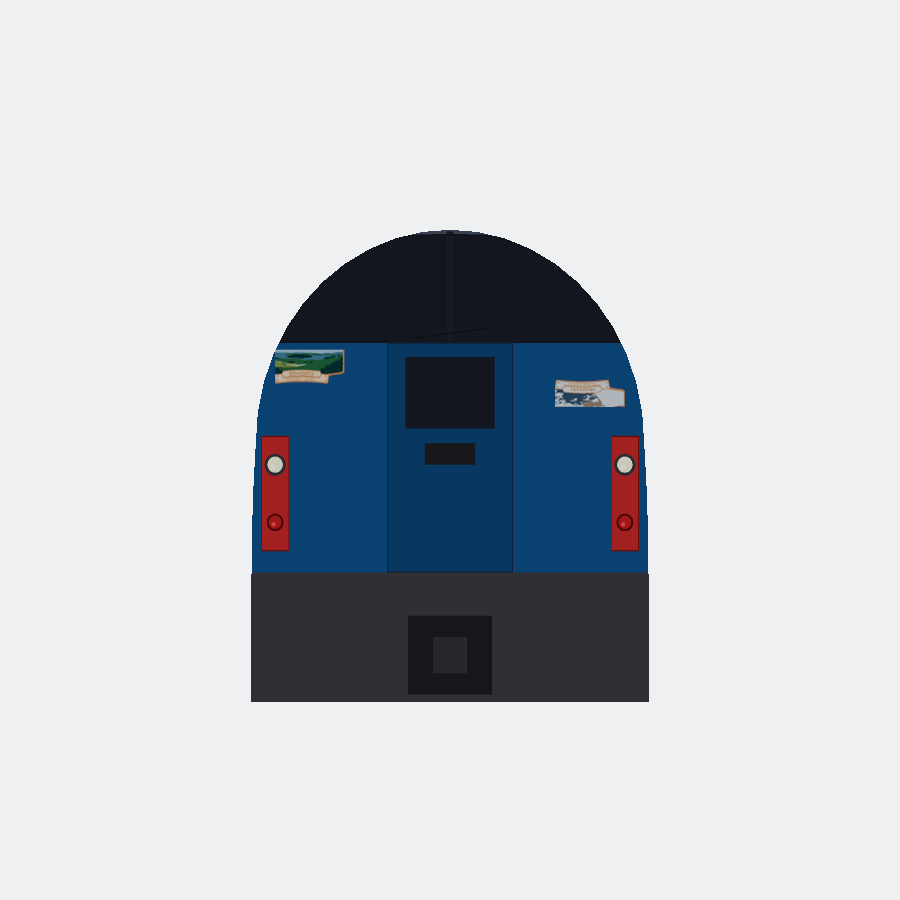
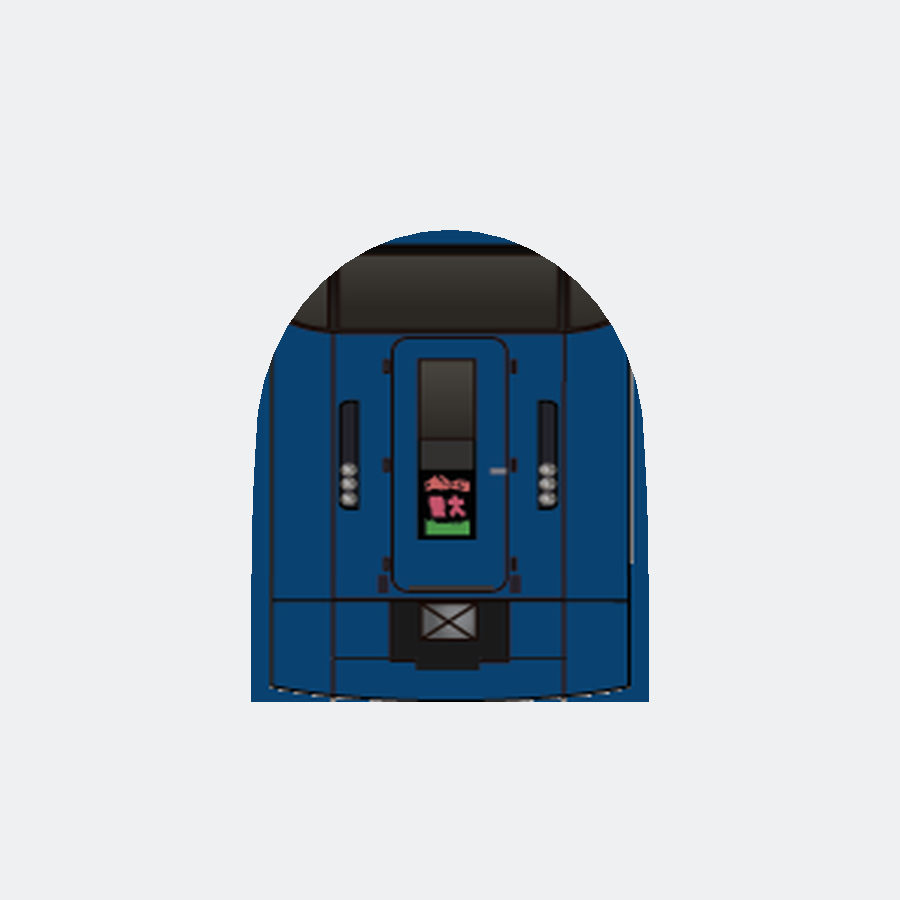
mc-review-rework5: jr-hokkaido-kiha283 cab face replaced with drawing crop
R5 redraw replaced by the drawing face piece (net x889-1020, y577-754,
flipped): panoramic windshield, gangway door with legible 大雪 display,
3-point lamps, X cover + skirt; headmark plates removed from the face.
models-pipeline 45039ea (car1) + 16e7469 (car3).

Changed region(s): [[0.28, 0.2489, 0.7467, 0.7778]]

diff --git a/mc-review-rework5-20261127/index.html b/mc-review-rework5-20261127/index.html
@@ -200,12 +200,12 @@ ul{margin:6px 0} li{font-size:14px;line-height:1.6} a{color:#93c5fd}
 <section class="card" id="car-44" data-num="44" data-slug="jr-hokkaido-kiha283" data-orig="第一批 #143" data-status="pushed">
   <div class="chead"><span class="num">#44</span> <span class="orig">汇总页 #44 · 第一批 #143</span> <span class="slug">jr-hokkaido-kiha283</span>
   <span class="badge pushed">✅ 已推</span></div>
-  <div class="pushline">✅ <b>已推</b>　提交 <code>8c8da1d</code>（删）、<code>599edab</code>（重建）（models-pipeline）</div><div class="cmeta">类别：其他：你这个司机端的这个贴图一看就不对整个删掉重新做 你能不能结合现实中的看一下呀 他（第五轮）</div>
+  <div class="pushline">✅ <b>已推</b>　提交 <code>45039ea</code>（car1）、<code>16e7469</code>（car3）（models-pipeline）</div><div class="cmeta">类别：其他：你这个司机端的这个贴图一看就不对整个删掉重新做 你能不能结合现实中的看一下呀 他（第五轮）</div>
   <div class="cnote"><b>MC 返工原因：</b>其他：你这个司机端的这个贴图一看就不对整个删掉重新做 你能不能结合现实中的看一下呀 他</div>
   <div class="cnote"><b>原始理由：</b>其他：重做</div>
   <div class="cnote"><b>根因：</b>R4 只改中央带颜色：脸仍是平蓝墙（无风挡、无门、无灯）、头标牌横置 90°、两侧灰机械条未清。</div>
-  <div class="cnote"><b>修法：</b>整车删掉重建：按实车＋kiha261 画法重画正脸——顶深灰蓝边＋3 小白灯、全景风挡（两片＋中柱、顶缘拱形、雨刮）、中央贯通门（＋门高窗＋显示框）、头标牌逆时针转 90° 贴回（左 TAISETSU 绿景、右 OZORA 蓝白雪景）、红灯壳；删两侧灰机械条、底绿带、中央拼贴缝；裙区深灰裙＋中央车钩盒。删 commit（663→662）＋重建 commit（662→663，index 位序与删前完全一致）。</div>
-  <div class="warnline">⚠ 鼻锥仍是平面帽几何（实车鼻锥是圆弧）；若 MC 要求圆鼻几何，需重建鼻锥 loft（另派任务）。头标牌在 car1/car3 左右互换（共用贴图＋u 镜像），数量与内容无误。</div>
+  <div class="cnote"><b>修法：</b>整车删掉重建：按实车＋kiha261 画法重画正脸——顶深灰蓝边＋3 小白灯、全景风挡（两片＋中柱、顶缘拱形、雨刮）、中央贯通门（＋门高窗＋显示框）、头标牌逆时针转 90° 贴回（左 TAISETSU 绿景、右 OZORA 蓝白雪景）、红灯壳；删两侧灰机械条、底绿带、中央拼贴缝；裙区深灰裙＋中央车钩盒。删 commit（663→662）＋重建 commit（662→663，index 位序与删前完全一致）。【2026-11-28 图纸裁切修复】第五轮脸是程序重画；图纸其实有真正脸件（net x889–1020，y577–754，垂直翻转一次），已换成图纸原图裁切：全景风挡＋中央贯通门（大雪显示正读）＋两侧各 3 点前灯＋底部 X 盖板＋裙区；头标牌不再贴上脸（牌在鼻侧件上，实车亦在鼻侧）；几何与 cap UV 未动（cap UV 为精确线性映射）；渲染与 batch51 对照 NCC 0.999。</div>
+  <div class="warnline">⚠ 鼻锥仍是平面帽几何（实车鼻锥是圆弧）；若 MC 要求圆鼻几何，需重建鼻锥 loft（另派任务）。头标牌已从脸上撤下（牌在鼻侧件上，实车亦在鼻侧；恢复需鼻锥 loft，另派任务）。</div>
   <div class="cimg"><img loading="lazy" src="img/jr-hokkaido-kiha283_r5_1.png" alt="jr-hokkaido-kiha283 修后（第五轮）——斜视角" onerror="this.parentElement.classList.add('imgerr');this.outerHTML='<div class=\'noimg\'>图加载失败</div>'"><div class="cap">修后（第五轮）——斜视角</div></div>
   <div class="cev"><div class="cevlab">🔍 司机端端面</div><img loading="lazy" src="img/jr-hokkaido-kiha283_r5_2.png" alt="jr-hokkaido-kiha283 特写"></div>
   <div class="cbtns">

diff --git a/mc-review-rework-all-20261127/index.html b/mc-review-rework-all-20261127/index.html
@@ -783,7 +783,7 @@ code{font-size:12px;word-break:break-all}
   <span class="badge ok">✅ 已推</span></div>
   <div class="cmeta">其他：这个司机端贴图错误（第五轮）</div>
   <div class="cquote">💬 MC 原话：其他：重做</div>
-  <div class="cinfo"><b>根因：</b>R4 只改中央带颜色：脸仍是平蓝墙（无风挡、无门、无灯）、头标牌横置 90°、两侧灰机械条未清。<br><b>修法：</b>整车删掉重建：按实车＋kiha261 画法重画正脸——顶深灰蓝边＋3 小白灯、全景风挡（两片＋中柱、顶缘拱形、雨刮）、中央贯通门（＋门高窗＋显示框）、头标牌逆时针转 90° 贴回（左 TAISETSU 绿景、右 OZORA 蓝白雪景）、红灯壳；删两侧灰机械条、底绿带、中央拼贴缝；裙区深灰裙＋中央车钩盒。删 commit（663→662）＋重建 commit（662→663，index 位序与删前完全一致）。<br><b>提交：</b><code>8c8da1d</code>（删）、<code>599edab</code>（重建）</div>
+  <div class="cinfo"><b>根因：</b>R4 只改中央带颜色：脸仍是平蓝墙（无风挡、无门、无灯）、头标牌横置 90°、两侧灰机械条未清。<br><b>修法：</b>整车删掉重建：按实车＋kiha261 画法重画正脸——顶深灰蓝边＋3 小白灯、全景风挡（两片＋中柱、顶缘拱形、雨刮）、中央贯通门（＋门高窗＋显示框）、头标牌逆时针转 90° 贴回（左 TAISETSU 绿景、右 OZORA 蓝白雪景）、红灯壳；删两侧灰机械条、底绿带、中央拼贴缝；裙区深灰裙＋中央车钩盒。删 commit（663→662）＋重建 commit（662→663，index 位序与删前完全一致）。【2026-11-28 图纸裁切修复】第五轮脸是程序重画；图纸其实有真正脸件（net x889–1020，y577–754，垂直翻转一次），已换成图纸原图裁切：全景风挡＋中央贯通门（大雪显示正读）＋两侧各 3 点前灯＋底部 X 盖板＋裙区；头标牌不再贴上脸（牌在鼻侧件上，实车亦在鼻侧）；几何与 cap UV 未动（cap UV 为精确线性映射）；渲染与 batch51 对照 NCC 0.999。<br><b>提交：</b><code>45039ea</code>（car1）、<code>16e7469</code>（car3）</div>
   
   <div class="cimg"><img loading="lazy" src="../mc-review-rework5-20261127/img/jr-hokkaido-kiha283_r5_1.png" alt="jr-hokkaido-kiha283 修后（第五轮）——斜视角" onerror="this.parentElement.classList.add('imgerr');this.outerHTML='<div class=\'noimg\'>图加载失败</div>'"><div class="ccap">修后（第五轮）——斜视角</div></div>
   <div class="cev"><div class="cevlab">🔍 司机端端面</div><img loading="lazy" src="../mc-review-rework5-20261127/img/jr-hokkaido-kiha283_r5_2.png" alt="jr-hokkaido-kiha283 特写"></div>
